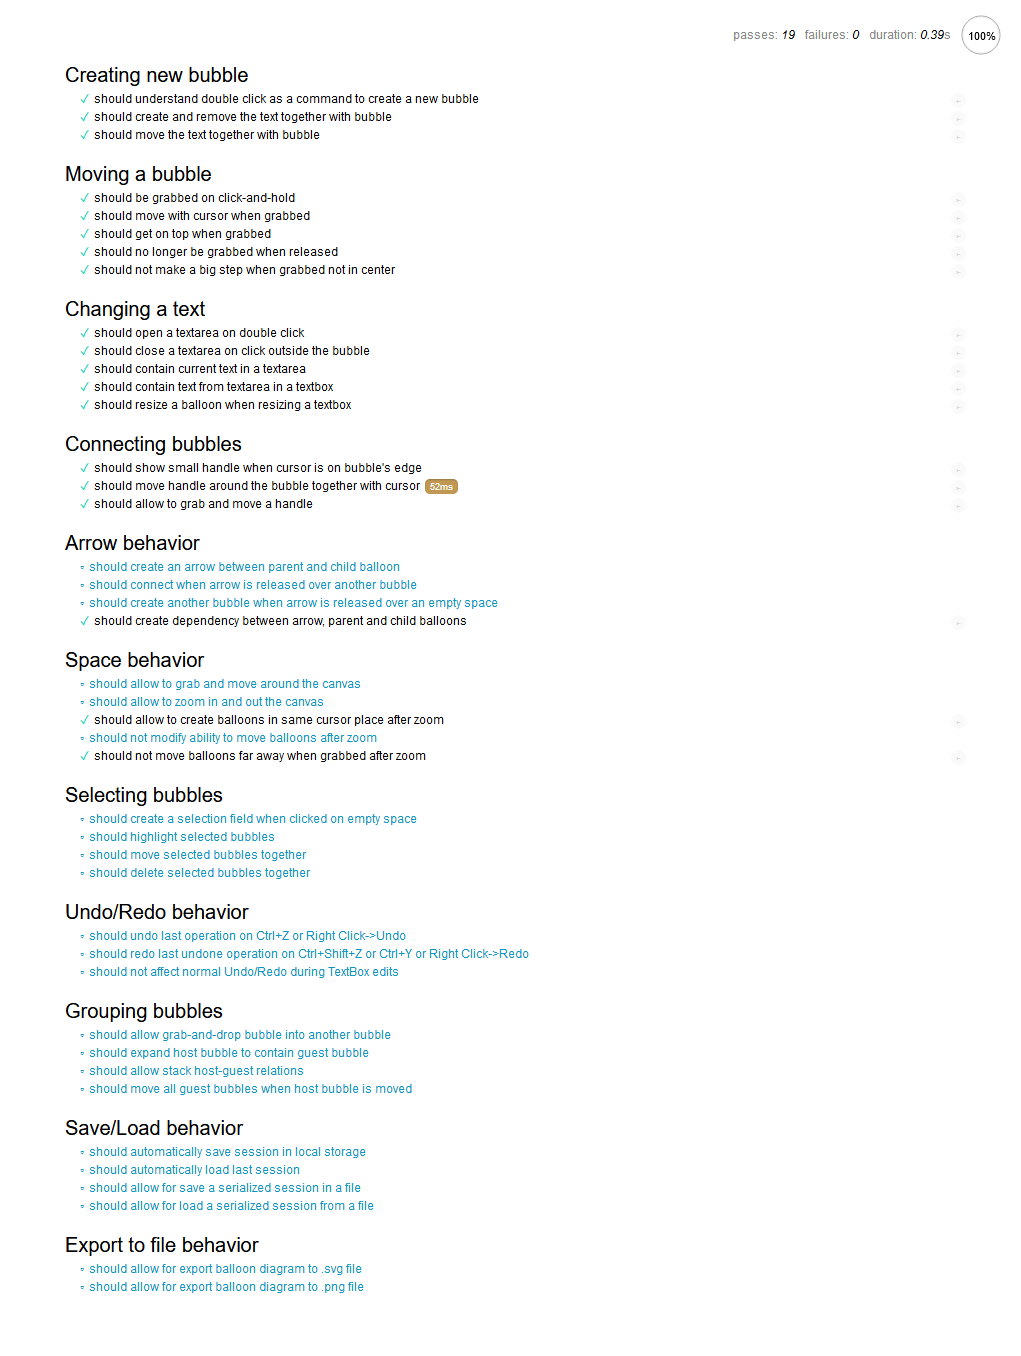
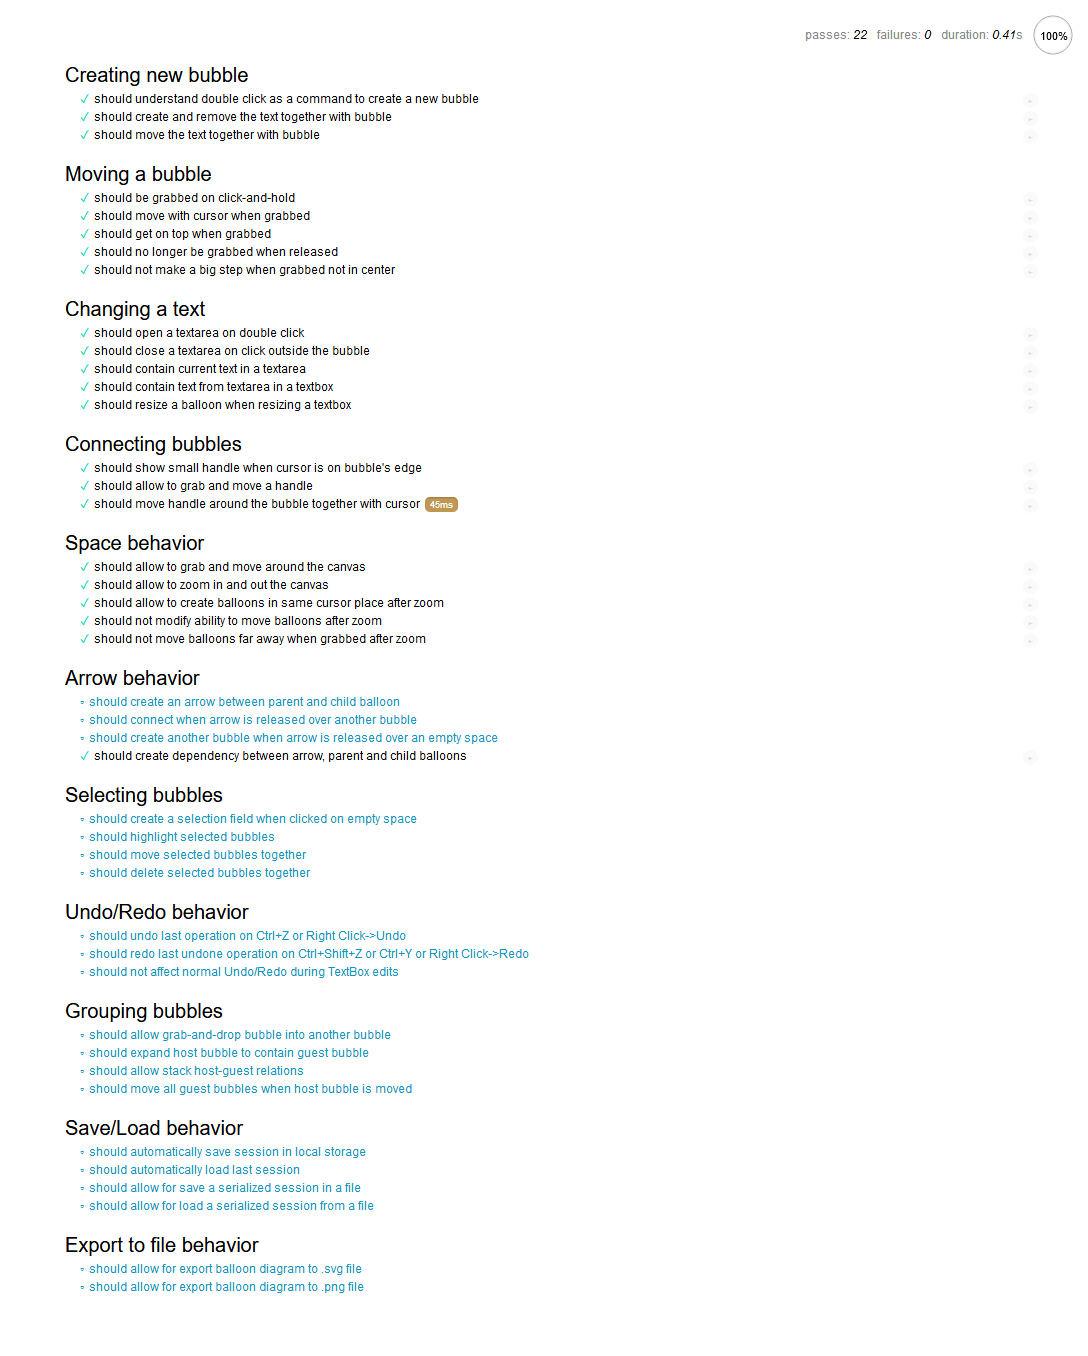
Added zoom and space movement tests

Changed region(s): [[0.0607, 0.031, 0.5162, 0.9602], [0.7287, 0.0, 1.0, 0.031]]

diff --git a/test/test.js b/test/test.js
@@ -247,6 +247,84 @@ describe('Connecting bubbles',
             });
     });
 
+describe('Space behavior',
+    () => {
+        it('should allow to grab and move around the canvas',
+            () => {
+                Space.isTesting = true;
+                var b = Balloons.addBalloon(x0, y0);
+                var [x1, y1, w1, h1] = Space.viewBox();
+                Mouse.click(x0 + 200, y0 + 200);
+                Mouse.move(x0 + 300, y0 + 300);
+                Space.draggingBalloon.should.equal(false);
+                Space.draggingSpace.should.equal(true);
+                var [x2, y2, w2, h2] = Space.viewBox();
+                x1.should.not.equal(x2);
+                y1.should.not.equal(y2);
+            });
+
+        it('should allow to zoom in and out the canvas',
+            () => {
+                var [x1, y1, w1, h1] = Space.viewBox();
+                Space.zoom(10);
+                var [x2, y2, w2, h2] = Space.viewBox();
+                Space.zoom(-20);
+                var [x3, y3, w3, h3] = Space.viewBox();
+                //console.log(x1 + " " + y1 + " " + w1 + " " + h1);
+                //console.log(x2 + " " + y2 + " " + w2 + " " + h2);
+                //console.log(x3 + " " + y3 + " " + w3 + " " + h3);
+                w2.should.be.above(w1);
+                w1.should.be.above(w3);
+                h2.should.be.above(h1);
+                h1.should.be.above(h3);
+                //Space.clear();
+            });
+
+        it('should allow to create balloons in same cursor place after zoom',
+            () => {
+                Space.zoom(10);
+                Mouse.doubleclick(x0, y0);
+                var [x1, y1] = Space.toScreenPoint(x0, y0);
+                var b = Balloons.getLast();
+                var [x2, y2, w, h] = b.rect();
+                [x2, y2] = Space.toScreenPoint(x2 + w / 2, y2 + h / 2);
+                x1.should.equal(x2);
+                y1.should.equal(y2);
+                Space.clear();
+            });
+
+        it('should not modify ability to move balloons after zoom',
+            () => {
+                var b = Balloons.addBalloon(x0, y0);
+                Space.zoom(10);
+                var [x, y] = b.getXY();
+                b.isGrabbed().should.equal(false);
+                Mouse.click(x, y);
+                b.isGrabbed().should.equal(true);
+                Mouse.move(x + 10, y + 10);
+                var [x2, y2] = b.getXY();
+                x.should.not.equal(x2);
+                y.should.not.equal(y2);
+                Space.clear();
+            });
+
+        it('should not move balloons far away when grabbed after zoom',
+            () => {
+                Space.zoom(10);
+                Space.draggingBalloon.should.equal(false);
+                Mouse.doubleclick(x0, y0);
+                var b = Balloons.getLast();
+                Mouse.click(x0, y0);
+                Space.draggingBalloon.should.equal(true);
+                var [x1, y1] = b.getXY();
+                Mouse.move(x0, y0);
+                var [x2, y2] = b.getXY();
+                (Math.abs(x2 - x1) < 1).should.equal(true);
+                (Math.abs(y2 - y1) < 1).should.equal(true);
+                Space.clear();
+            });
+    });
+
 describe('Arrow behavior',
     () => {
         it('should create an arrow between parent and child balloon');
@@ -271,41 +349,6 @@ describe('Arrow behavior',
                 b.childArrows[0].should.equal(arrow);
                 b.childBalloons[0].should.equal(b2);
                 Space.clear();
-            });
-    });
-
-describe('Space behavior',
-    () => {
-        it('should allow to grab and move around the canvas');
-
-        it('should allow to zoom in and out the canvas');
-
-        it('should allow to create balloons in same cursor place after zoom',
-            () => {
-                Space.zoom(200);
-                Mouse.doubleclick(x0, y0);
-                var [x1, y1] = Space.toCursorPoint(x0, y0);
-                var b = Balloons.getLast();
-                b.x.should.equal(x1);
-                b.y.should.equal(y1);
-                Space.clear();
-            });
-
-        it('should not modify ability to move balloons after zoom');
-
-        it('should not move balloons far away when grabbed after zoom',
-            () => {
-                Space.zoom(1);
-                Space.draggingBalloon.should.equal(false);
-                Mouse.doubleclick(x0, y0);
-                var b = Balloons.getLast();
-                Mouse.click(x0, y0);
-                Space.draggingBalloon.should.equal(true);
-                var [x1, y1] = b.getXY();
-                Mouse.move(x0, y0);
-                var [x2, y2] = b.getXY();
-                (Math.abs(x2 - x1) < 1).should.equal(true);
-                (Math.abs(y2 - y1) < 1).should.equal(true);
             });
     });
 

diff --git a/scripts/space.js b/scripts/space.js
@@ -86,7 +86,8 @@
         Space.mousePos = [event.clientX, event.clientY];
         var [dx, dy] = [x1 - x0, y1 - y0];
         this.xy = [x1, y1];
-        if (event.buttons !== 1) return;
+        if (typeof
+            Space.isTesting === 'undefined' && event.buttons !== 1) return;
         if (Space.mouseDown === false) return;
         if (Space.draggingBalloon) {
             if (Space.currentElement == null) return;
@@ -142,6 +143,7 @@
 
     clear() {
         this.currentElement = null;
+        this.handle = null;
         this.draggingBalloon = false;
         this.draggingHandle = false;
         this.draggingSpace = false;
@@ -163,7 +165,7 @@
 
     zoom(value) {
         var [x, y, w, h] = this.viewBox();
-        var alpha = (w - x) / (h - y);
+        var alpha = w / h;
         x -= value * alpha / 2;
         y -= value / 2;
         w += value * alpha;
